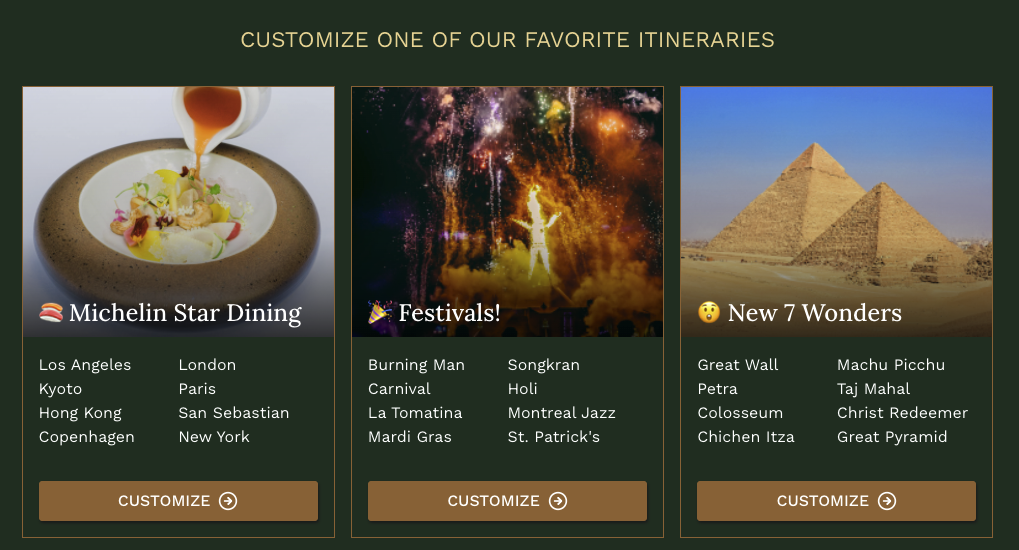
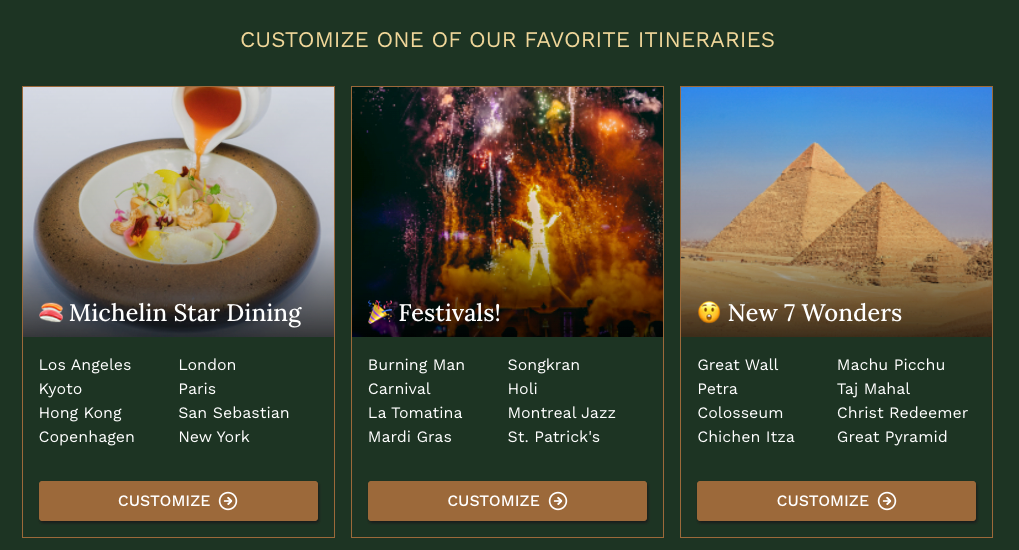
style: converted screenshots from monitor color profile to sRGB

diff --git a/app.rb b/app.rb
@@ -226,6 +226,9 @@ get "/itinerary/:code/sharing" do
   code = validate_itinerary_code(params[:code])
   @display_sharing_code = session[:display_sharing_code]
   @itinerary = @itinerary_handler.find_itinerary_by_code(code)
+  @itinerary.sort_destinations! do |coords|
+    sort_tsp_dp(coords)
+  end
   
   erb :sharing, layout: :layout
 end
